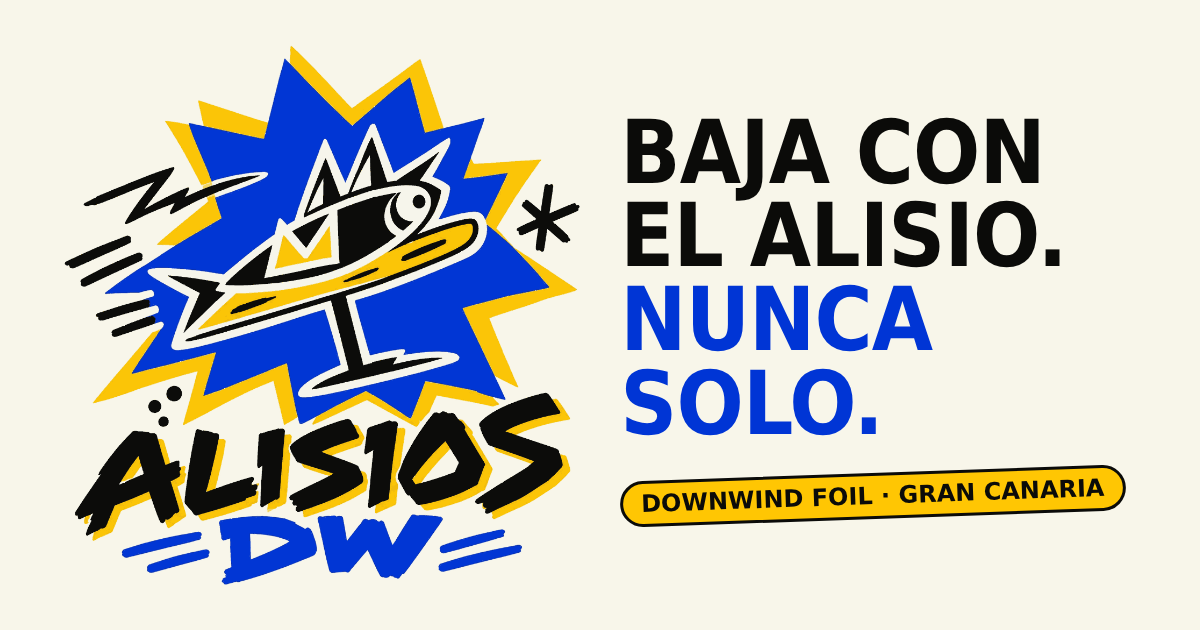
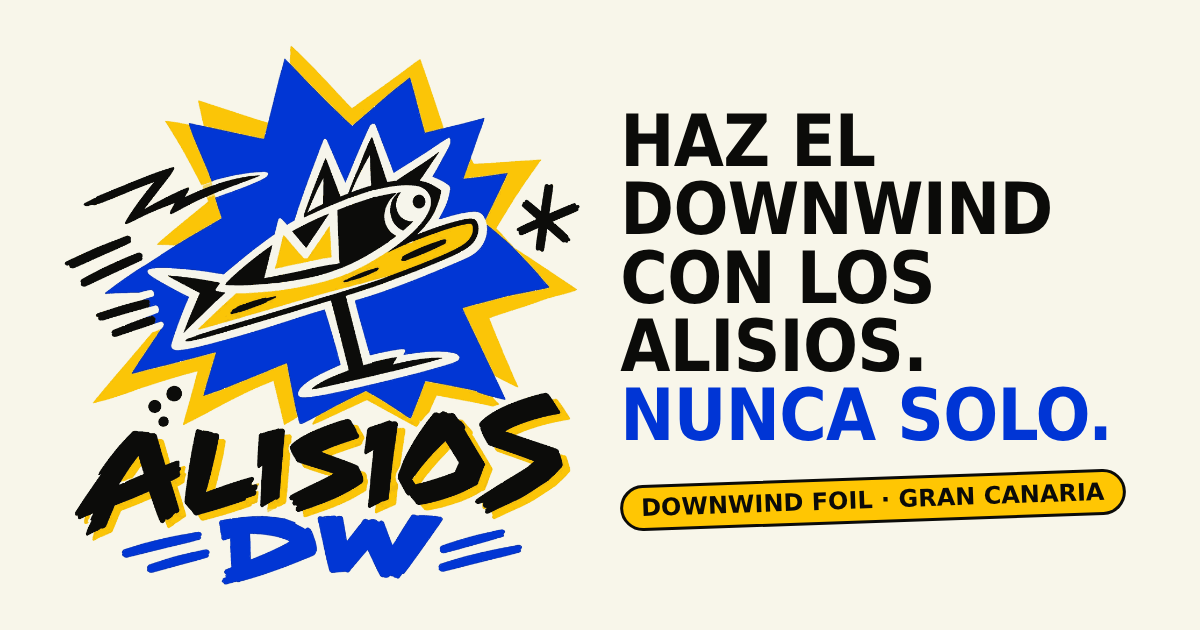
Cambia bajadas por downwind y runs en todos los textos
Claude-Session: https://claude.ai/code/session_0199dnggSmJ8xWJxURAn63UW

Changed region(s): [[0.4933, 0.181, 0.9558, 0.8444]]

diff --git a/src/faqs.ts b/src/faqs.ts
@@ -2,19 +2,19 @@
 
 export const faqs = [
   {
-    q: "¿Cuánto cuesta venir a una bajada?",
-    a: "Las bajadas de la comunidad son gratis. Cada rider trae su material y, si compartimos coche, la gasolina se reparte entre quienes van.",
+    q: "¿Cuánto cuesta venir a un downwind?",
+    a: "Los runs de la comunidad son gratis. Cada rider trae su material y, si compartimos coche, la gasolina se reparte entre quienes van.",
   },
   {
     q: "¿Qué nivel necesito?",
-    a: "Para las bajadas abiertas tienes que despegar sin ayuda y aguantar sesiones largas en el agua. Si todavía no despegas con choppy, apúntate igualmente: te avisamos cuando abramos las sesiones de iniciación.",
+    a: "Para los runs abiertos tienes que despegar sin ayuda y aguantar sesiones largas en el agua. Si todavía no despegas con choppy, apúntate igualmente: te avisamos cuando abramos las sesiones de iniciación.",
   },
   {
     q: "¿Qué material hace falta?",
     a: "Tu tabla y tu foil, chaleco o impact vest, leash y el móvil en una funda estanca. Recomendamos casco. Para parawing y wing foil, tu ala.",
   },
   {
-    q: "¿Por dónde son las bajadas?",
+    q: "¿Por dónde son los runs?",
     a: "Elegimos la ruta según la dirección y la fuerza del alisio y el estado del mar. La ruta, el punto de encuentro y el nivel se anuncian en el grupo antes de cada salida.",
   },
   {
@@ -23,7 +23,7 @@ export const faqs = [
   },
   {
     q: "¿Puedo venir si estoy de paso por la isla?",
-    a: "Sí. Escríbenos con unos días de antelación y te decimos qué bajadas encajan con tu nivel y si queda sitio en algún coche.",
+    a: "Sí. Escríbenos con unos días de antelación y te decimos qué runs encajan con tu nivel y si queda sitio en algún coche.",
   },
   {
     q: "¿Alquiláis material?",
@@ -31,7 +31,7 @@ export const faqs = [
   },
   {
     q: "¿Quién se hace responsable en el agua?",
-    a: "En las bajadas abiertas cada rider sale bajo su propia responsabilidad y decide según su nivel y el estado del mar. Los cursos y actividades guiadas que lancemos tendrán seguro y monitores titulados.",
+    a: "En los runs abiertos cada rider sale bajo su propia responsabilidad y decide según su nivel y el estado del mar. Los cursos y actividades guiadas que lancemos tendrán seguro y monitores titulados.",
   },
   {
     q: "¿Cuándo empiezan los cursos?",
@@ -39,6 +39,6 @@ export const faqs = [
   },
   {
     q: "¿Qué hacéis con mis datos?",
-    a: "Solo los usamos para avisarte de bajadas y novedades de la comunidad. No los compartimos con nadie y puedes darte de baja cuando quieras.",
+    a: "Solo los usamos para avisarte de runs y novedades de la comunidad. No los compartimos con nadie y puedes darte de baja cuando quieras.",
   },
 ];

diff --git a/src/scripts/main.ts b/src/scripts/main.ts
@@ -118,7 +118,7 @@ if (form) {
       if (!v) return "Escribe tu email.";
       return emailPattern.test(v) ? "" : "Este email no parece válido. Revisa que tenga @ y dominio.";
     },
-    nivel: (el) => (el.value ? "" : "Elige tu nivel para saber qué bajadas te encajan."),
+    nivel: (el) => (el.value ? "" : "Elige tu nivel para saber qué runs te encajan."),
     privacidad: (el) => ((el as HTMLInputElement).checked ? "" : "Necesitamos tu permiso para escribirte."),
   };
 
@@ -151,7 +151,7 @@ if (form) {
     if (!submit || !submitLabel) return;
     submit.disabled = loading;
     submit.setAttribute("aria-busy", String(loading));
-    submitLabel.textContent = loading ? "Enviando…" : "Apúntate a la próxima bajada";
+    submitLabel.textContent = loading ? "Enviando…" : "Apúntate al próximo downwind";
   }
 
   function showSuccess(text?: string, title?: string) {

diff --git a/src/config.ts b/src/config.ts
@@ -5,7 +5,7 @@ export const site = {
   // PENDIENTE: dominio definitivo (debe coincidir con "site" en astro.config.mjs)
   url: "https://alisiosdownwind.com",
   description:
-    "Comunidad de downwind foil en Gran Canaria. Bajadas abiertas de SUP foil, parawing y wing foil por la costa de la isla, en grupo y con la logística resuelta.",
+    "Comunidad de downwind foil en Gran Canaria. Runs abiertos de SUP foil, parawing y wing foil por la costa de la isla, en grupo y con la logística resuelta.",
   instagram: "https://www.instagram.com/alisios.downwind/",
   instagramHandle: "@alisios.downwind",
   // PENDIENTE: enlace de invitación al grupo de WhatsApp (https://chat.whatsapp.com/...). Si se deja vacío se muestra Instagram.

diff --git a/README.md b/README.md
@@ -56,7 +56,7 @@ public/                favicon, og.png (imagen al compartir), robots.txt
 
 ## Siguientes mejoras recomendadas
 
-- **Fotos reales**: la ilustración del hero es provisional. Una foto o un vídeo corto de una bajada (GoPro o dron) convierte mucho mejor. Pon la imagen en `src/assets/` y usa el componente `<Image />` de Astro en `Hero.astro`.
+- **Fotos reales**: el hero solo lleva el logo. Una foto o un vídeo corto de un downwind (GoPro o dron) convierte mucho mejor. Pon la imagen en `src/assets/` y usa el componente `<Image />` de Astro en `Hero.astro`.
 - **Testimonios reales**: cuando tengáis frases de riders (con su permiso), añadid una sección de testimonios junto a `Community.astro`.
 - **Riders invitados**: confirmad con Iballa Ruano y Foil Only que os parece bien nombrarlos (aparecen en el hero y en la sección de comunidad).
 - **Versión en inglés** para riders de paso por la isla.
